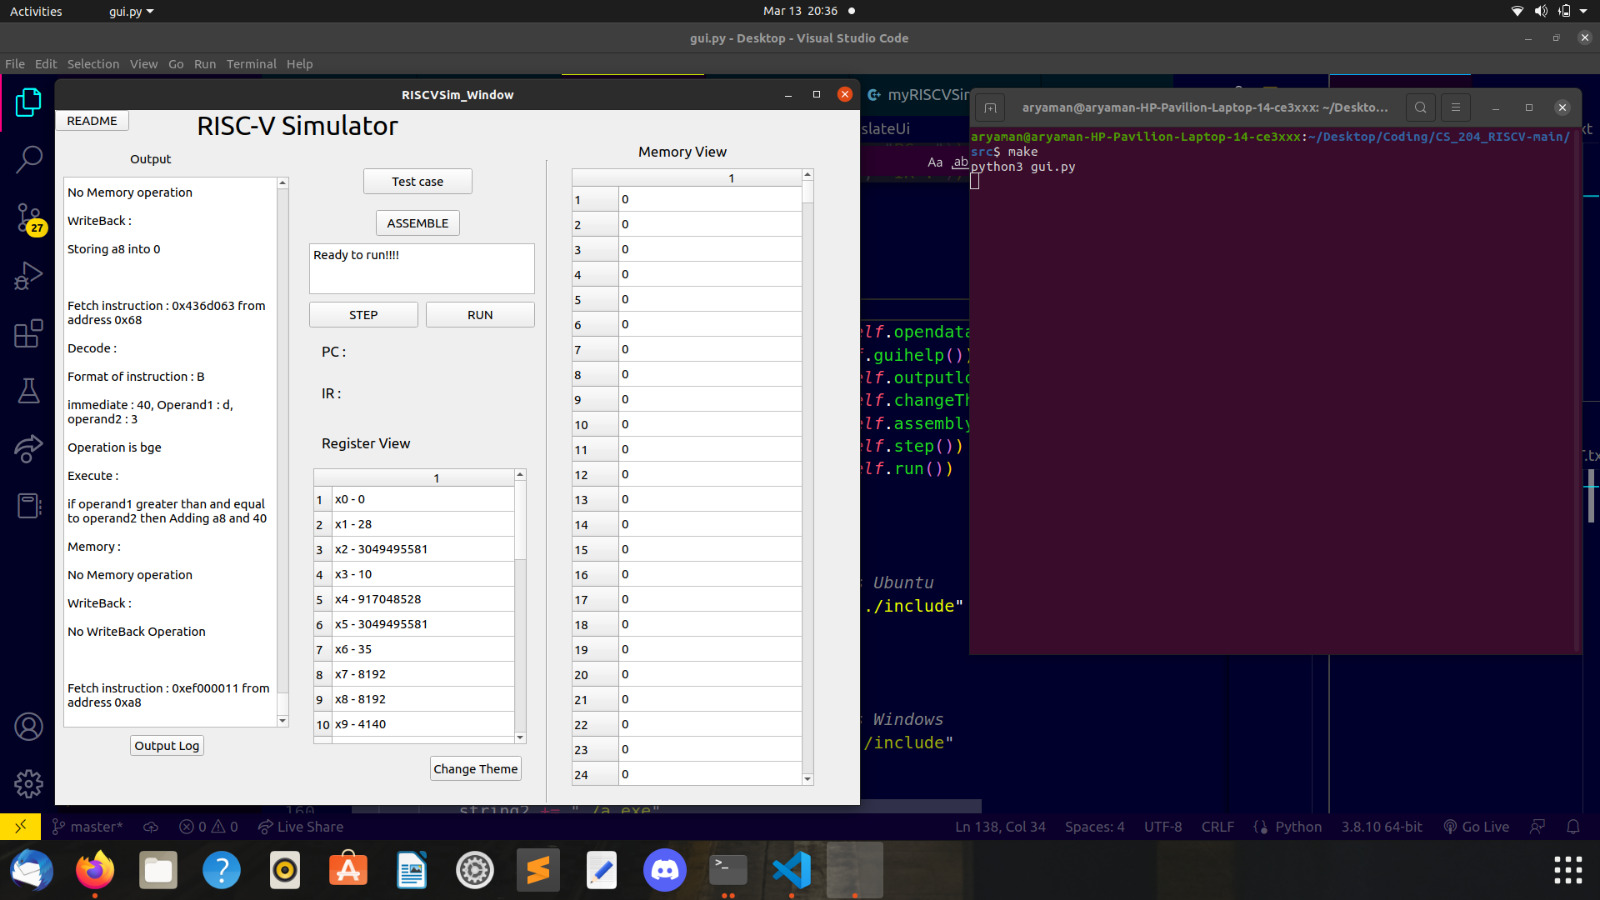
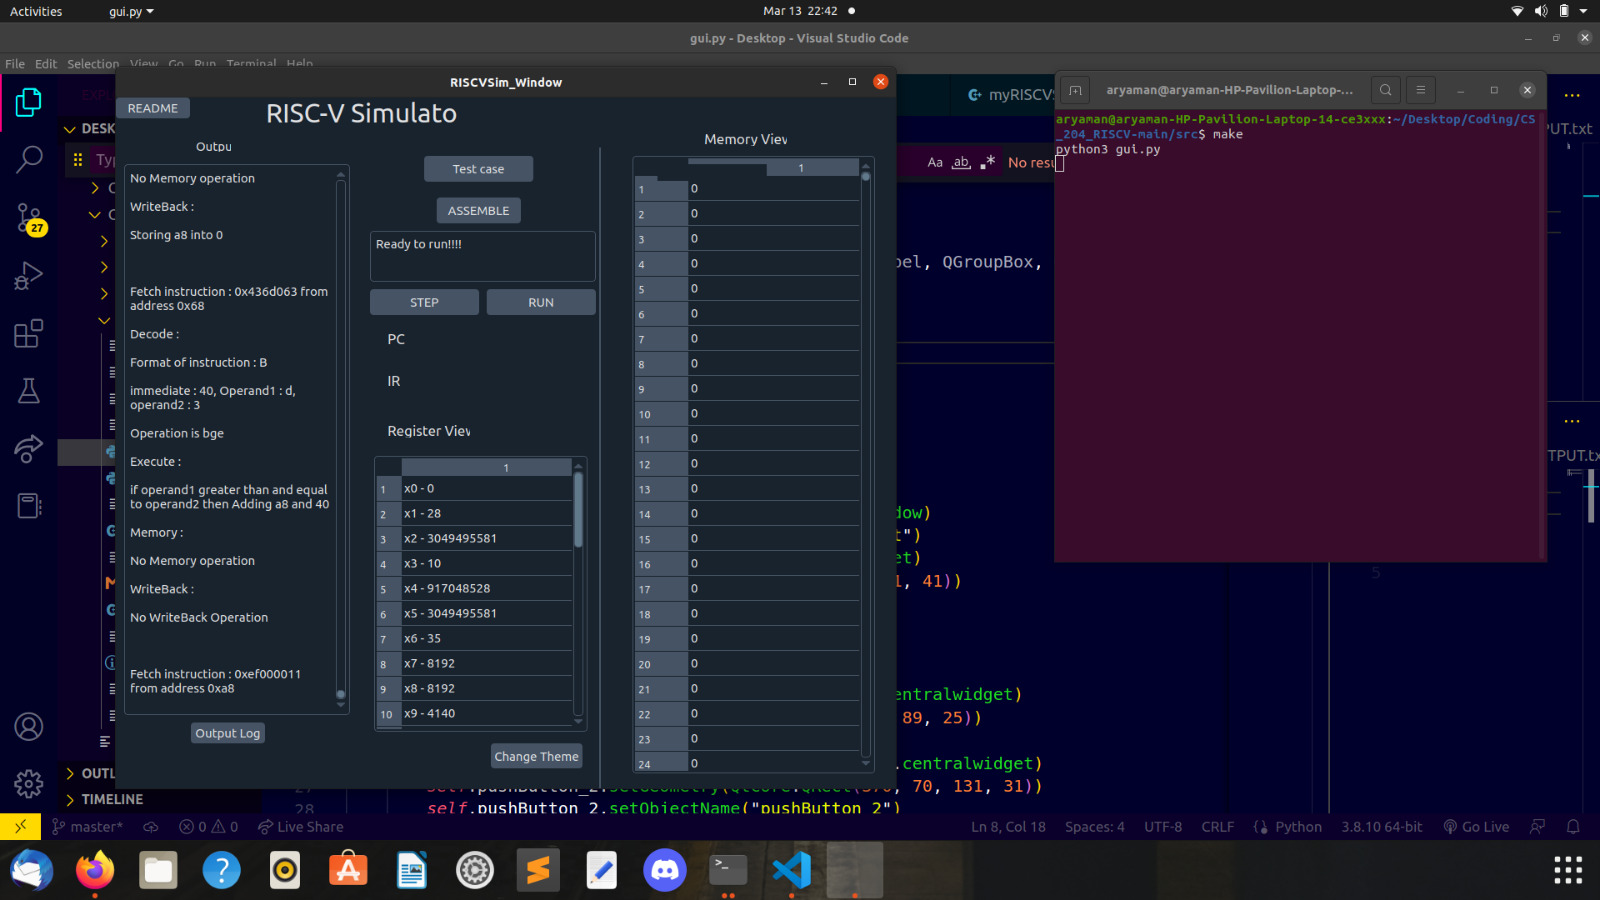
final

diff --git a/README.md b/README.md
@@ -107,11 +107,20 @@ Check the generated folder for details of compilation. It contains:
 
 <h2 id="screenshoots">ScreenShots</h2>
 
+<h3>Linux View</h3>
 <p align="center">
   <img src="pics/1.jpeg" alt="Logo" width="1080" height="500">
 </p>
 <p align="center">
   <img src="pics/2.jpeg" alt="Logo" width="1080" height="500">
+</p>
+
+<h3>Windows View</h3>
+<p align="center">
+  <img src="pics/3.jpeg" alt="Logo" width="1080" height="500">
+</p>
+<p align="center">
+  <img src="pics/4.jpeg" alt="Logo" width="1080" height="500">
 </p>
 
 <h2 id="contributors">Contributers</h2>
